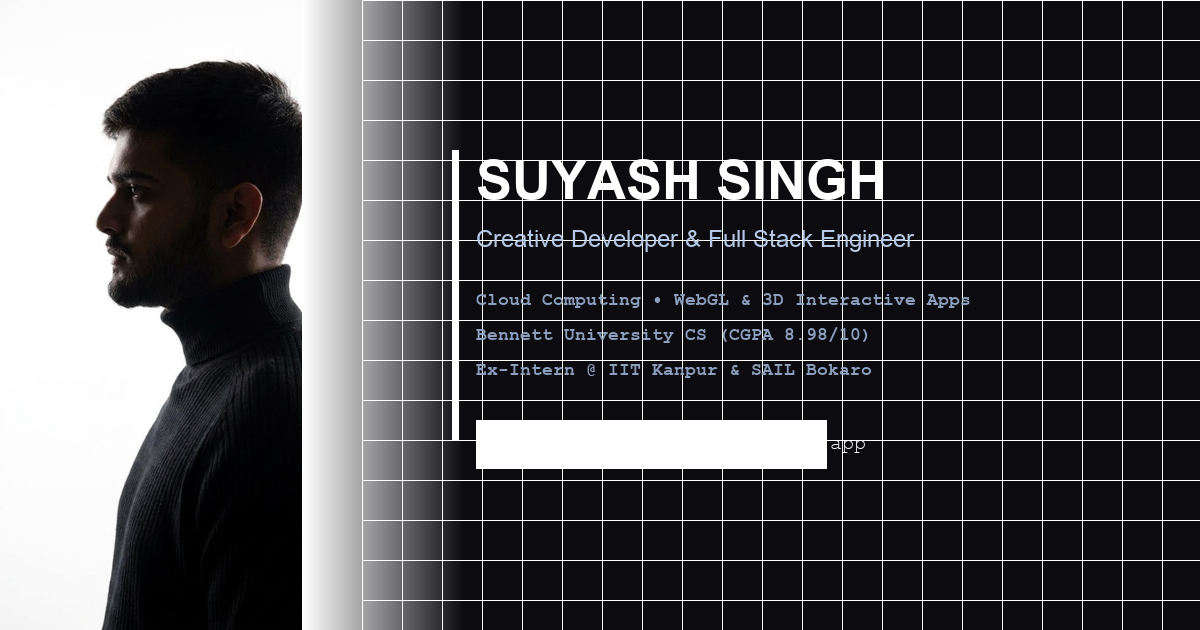
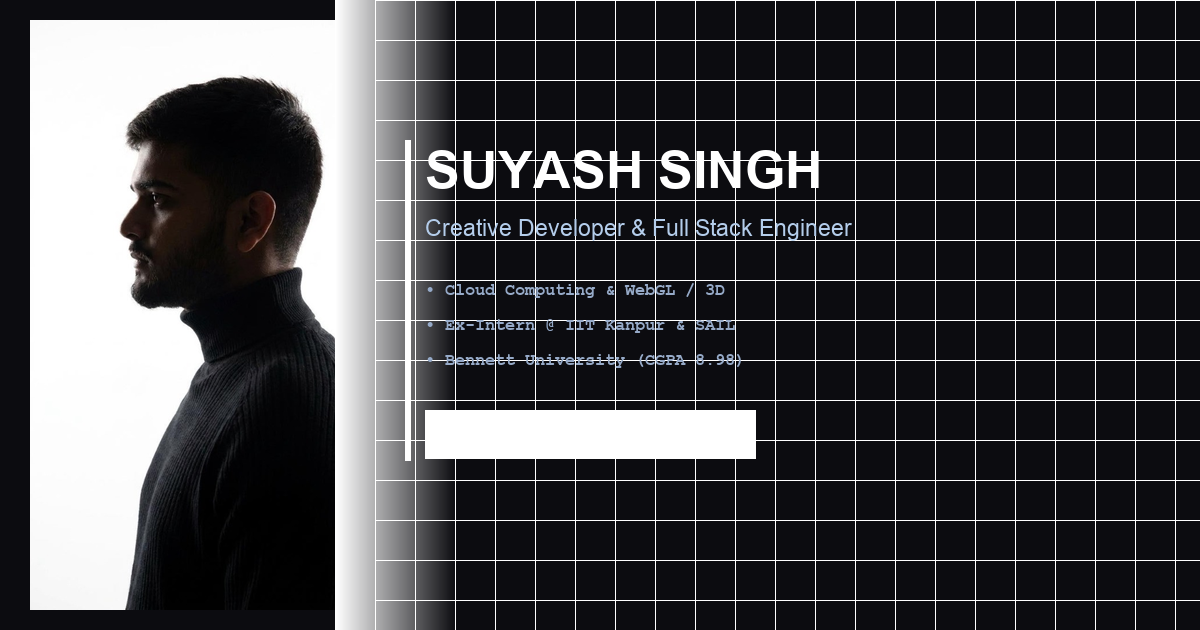
feat: redesign square-compatible OG link preview card with portrait photo and cache-busting version

Changed region(s): [[0.0, 0.0, 0.8325, 1.0]]

diff --git a/src/app/layout.tsx b/src/app/layout.tsx
@@ -24,7 +24,7 @@ export const metadata: Metadata = {
     siteName: "Suyash Singh Portfolio",
     images: [
       {
-        url: "/og-image.png",
+        url: "/og-image.png?v=3",
         width: 1200,
         height: 630,
         alt: "Suyash Singh Portfolio",
@@ -37,7 +37,7 @@ export const metadata: Metadata = {
     card: "summary_large_image",
     title: "Suyash Singh — Creative Developer & Full Stack Engineer",
     description: "Interactive portfolio featuring WebGL 3D graphics, full-stack projects, and real-time interactive experiences.",
-    images: ["/og-image.png"],
+    images: ["/og-image.png?v=3"],
   },
 };
 
